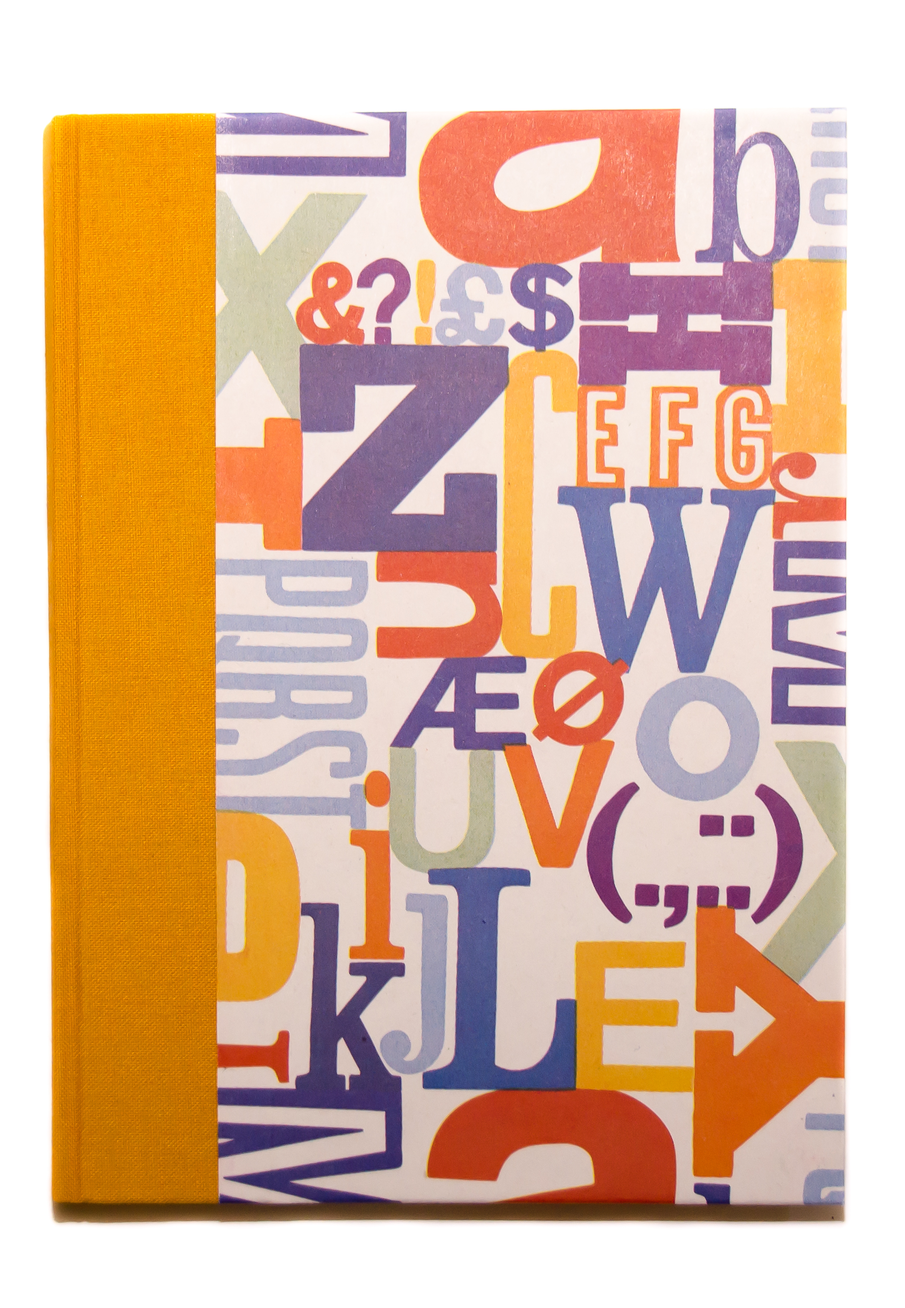
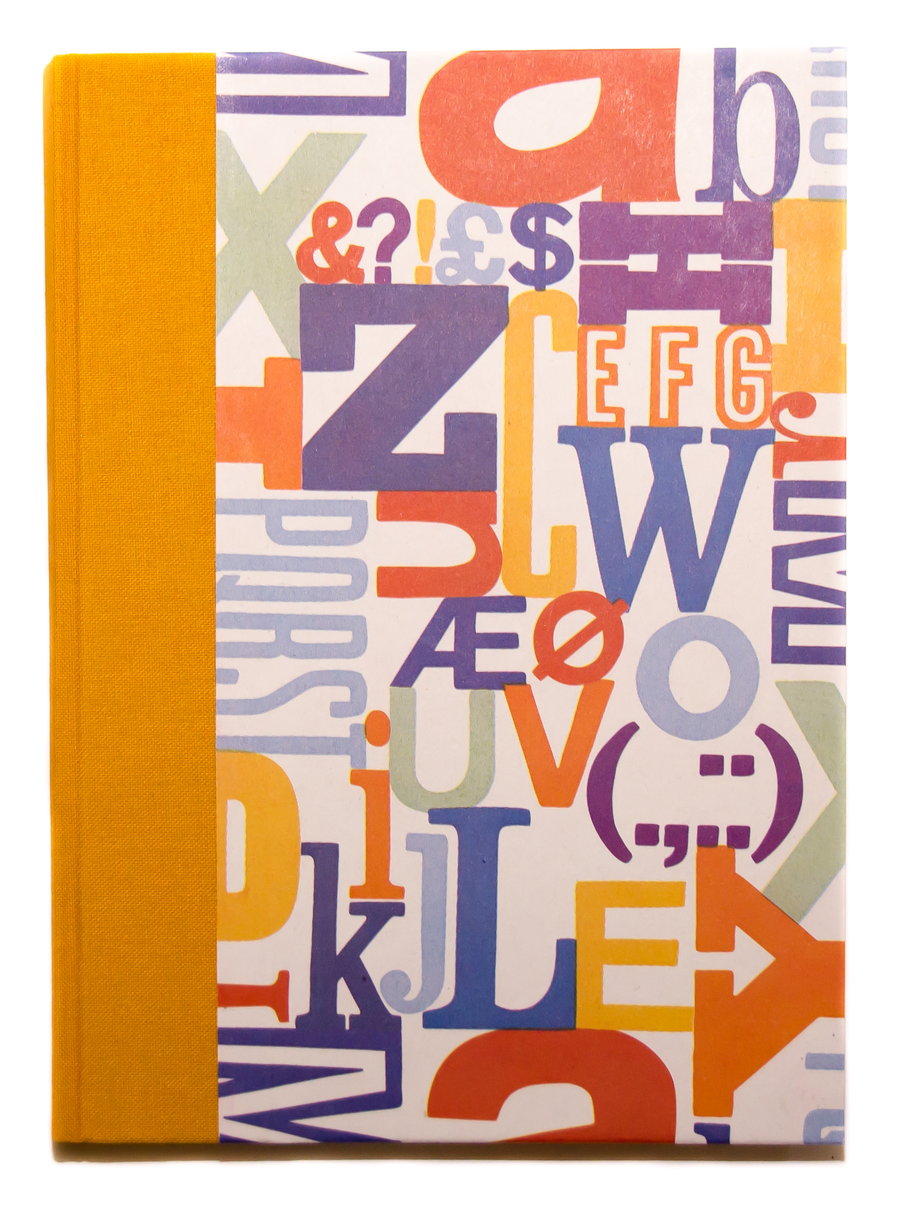
compress images, exemplify: darkened image section with headline, add image of opened book

diff --git a/tagebuch/index.html b/tagebuch/index.html
@@ -9,7 +9,7 @@ keywords: qefg, rwgdw, ggb, wbg
 ---
 
 <section>
-  <div style="max-width:1100px;">
+  <div style="max-width:1100px;" class="content">
       <div style="margin-left:auto;margin-right:auto;max-width:850px">
           <p>
               <h1>
@@ -21,22 +21,22 @@ keywords: qefg, rwgdw, ggb, wbg
           <br>
           <div class="grid-x small-up-2 medium-up-3 large-up-6">
               <div class="cell">
-                  <img src="pictures/covers/DSC_0014.jpg" />
+                  <img src="pictures/covers/DSC_0035_small.jpg" />
               </div>
               <div class="cell">
-                  <img src="pictures/covers/DSC_0017.jpg" />
+                  <img src="pictures/covers/DSC_0017_small.jpg" />
               </div>
               <div class="cell">
-                  <img src="pictures/covers/DSC_0023.jpg" />
+                  <img src="pictures/covers/DSC_0023_small.jpg" />
               </div>
               <div class="cell">
-                  <img src="pictures/covers/DSC_0024.jpg" />
+                  <img src="pictures/covers/DSC_0024_small.jpg" />
               </div>
               <div class="cell">
-                  <img src="pictures/covers/DSC_0031.jpg" />
+                  <img src="pictures/covers/DSC_0031_small.jpg" />
               </div>
               <div class="cell">
-                  <img src="pictures/covers/DSC_0028.jpg" />
+                  <img src="pictures/covers/DSC_0028_small.jpg" />
               </div>
           </div>
       </p>
@@ -47,13 +47,12 @@ keywords: qefg, rwgdw, ggb, wbg
   </div>
 </section>
 
-<section class="diary-section-background"
-   style="height:500px;background-image:url(pictures/background/DSC_0041.jpg);">
+<section class="background" style="height:500px;background-image:url(pictures/background/DSC_0041_small.jpg);">
 </section>
 
 <!-- SUMMARY -->
 <section>
-  <div>
+  <div class="content">
       <h2>Das 33Tagebuch</h2> <!-- grob was es ist, warum es funktioniert -->
       <p style="text-align:center">
           Das 33Tagebuch ist eine tägliche angeleitete Übung die Deinen Geist beruhigt, fokussiert und einfach glücklich macht. Es vereint bewährte Methoden der Selbstentwicklung mit den Erkenntnissen der positiven Psychologie.
@@ -61,13 +60,13 @@ keywords: qefg, rwgdw, ggb, wbg
   </div>
 </section>
 
-<section class="diary-section-background"
-   style="height:500px;background-image:url(pictures/background/DSC_0045.jpg);">
+<section class="background"
+   style="height:500px;background-image:url(pictures/background/DSC_0045_small.jpg);">
 </section>
 
 <!-- Kina Books -->
 <section>
-  <div>
+  <div class="content">
       <h2>Handgefertigt von Kinabooks</h2>
       <p style="text-align:center">
           Jede Exemplar des 33Tagebuches ist ein Unikat mit individuellem Design. Die Bücher werden von <a href="http://kinabooks.jimdo.com" target="blank">Kinabooks</a> mit viel Liebe und in Handarbeit hergestellt, mit klassischer Fadenbindung.
@@ -85,17 +84,12 @@ keywords: qefg, rwgdw, ggb, wbg
   </div>
 </section>
 
-<section class="diary-section-background" style="background-image:url(pictures/background/materials.JPG);text-align:center;">
-   <div style="background-color:rgba(0,0,0,0.5);background-opacity:50%;width:100%;height:100%;">
-      <h1 style="color:white;margin-top:100px;margin-bottom:100px">
-         Jedes Exemplar <nobr>wie Du:</nobr> <nobr>Ein Unikat</nobr>
-      </h1>
-   </div>
+<section class="background" style="height:500px;background-image:url(pictures/background/materials.JPG);">
 </section>
 
 <!-- WHY IT WORKS, SCIENCE ... -->
 <section>
-  <div>
+  <div class="content">
       <h2>Warum funktioniert es?</h2>
       <p style="text-align:center">
           Das 33Tagebuch ist das Ergebniss von jahrelangem Lernen und Experimentieren mit Konzepten und Techniken der Selbstentwicklung. Es beruht nicht nur auf Wissenschaft sondern ist nun in der 3. Auflage vielfach überarbeitet und an die Wünsche unserer Leser angepasst.
@@ -113,27 +107,33 @@ keywords: qefg, rwgdw, ggb, wbg
   </div>
 </section>
 
-<section class="diary-section-background"
-   style="height:500px;background-image:url(pictures/background/DSC_0089.jpg);">
+<section class="background" style="background-image:url(pictures/background/DSC_0089_small.jpg);">
+   <div style="background-color:rgba(0, 0, 0, 0.3); width:100%; height:100%; padding-top:200px; padding-bottom:200px; padding-left:50px; padding-right:50px">
+      <h1 style="color:white;text-align:center;font-weight:900">
+         Jedes Exemplar <nobr>wie Du:</nobr> <nobr>Ein Unikat</nobr>
+      </h1>
+   </div>
 </section>
 
 <!-- MANUAL, DAILY QUESTIONS, LOOK INSIDE -->
 <section>
-  <div>
+  <div class="content">
       <h2>Wie benutze ich es?</h2>
+      <img src="pictures/opened/DSC_0117b_small.jpg" width="100%">
       <p style="text-align:center">
           Jedem Tag ist eine Doppelseite gewidmet. Die linke Seite füllst Du am Morgen aus, die rechte am Abend. Das Frageschema ist jeden Tag das selbe. Die einzelnen Fragen sind Schreibmeditationen die bei bewusster Durchführung Dein Leben verändern können.
       </p>
+
   </div>
 </section>
 
-<section class="diary-section-background"
-   style="height:500px;background-image:url(pictures/background/DSC_0096.jpg);">
+<section class="background"
+   style="height:500px;background-image:url(pictures/background/DSC_0096_small.jpg);">
 </section>
 
 <!-- TESTIMONIALS -->
 <section>
-  <div>
+  <div class="content">
       <h2>Erfahrungen</h2>
       <p style="text-align:center">
           &#9733; &#9733; &#9733; &#9733; &#9733;<br>
@@ -142,27 +142,27 @@ keywords: qefg, rwgdw, ggb, wbg
   </div>
 </section>
 
-<section class="diary-section-background"
-   style="height:500px;background-image:url(pictures/background/DSC_0080.jpg);">
+<section class="background"
+   style="height:500px;background-image:url(pictures/background/DSC_0080_small.jpg);">
 </section>
 
 <!-- ORDER -->
 <section id="bestellen">
-  <div>
+  <div class="content">
       <h2>Jetzt ein Exemplar Sichern</h2>
       <p>
           <div class="grid-x small-up-2 medium-up-4">
               <div class="cell">
-                  <img src="pictures/covers/DSC_0017.jpg" />
+                  <img src="pictures/covers/DSC_0017_small.jpg" />
               </div>
               <div class="cell">
-                  <img src="pictures/covers/DSC_0023.jpg" />
+                  <img src="pictures/covers/DSC_0023_small.jpg" />
               </div>
               <div class="cell">
-                  <img src="pictures/covers/DSC_0024.jpg" />
+                  <img src="pictures/covers/DSC_0024_small.jpg" />
               </div>
               <div class="cell">
-                  <img src="pictures/covers/DSC_0031.jpg" />
+                  <img src="pictures/covers/DSC_0031_small.jpg" />
               </div>
           </div>
       </p>

diff --git a/tagebuch/tagebuch.css b/tagebuch/tagebuch.css
@@ -1,17 +1,11 @@
 /* Content Container Div */
 
-section > div
+div.content
 {
     width:90%;
     max-width:700px;
     margin-left:auto;
     margin-right:auto;
-}
-
-/* Section */
-
-section
-{
     padding-top:100px;
     padding-bottom:100px
 }
@@ -96,9 +90,10 @@ a:hover
 
 /* Sections with BG Photo */
 
-.diary-section-background
+section.background
 {
-    background-repeat: no-repeat;
-    background-size: cover;
-    background-position: center;
+   background-repeat: no-repeat;
+   background-size: cover;
+   background-position: center;
+   background-attachment: fixed;
 }

diff --git a/_layouts/default.html b/_layouts/default.html
@@ -5,7 +5,6 @@
 
    <body>
 
-
       {%- if page.is_landing_page -%}
          {%- if page.is_landing_page == false -%}
             {%- include header.html -%}
